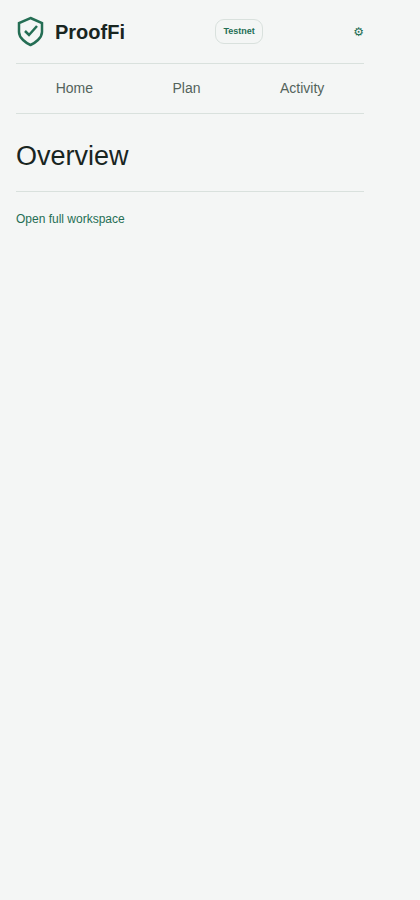
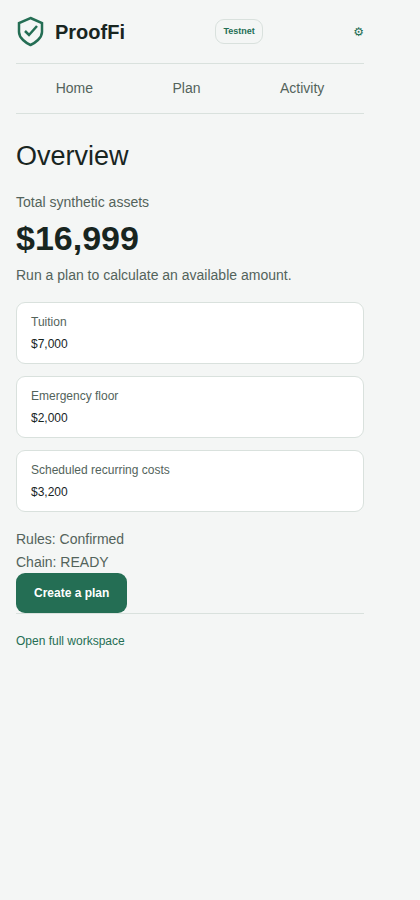
#112: package and validate the extension release candidate

diff --git a/apps/extension/src/Popup.tsx b/apps/extension/src/Popup.tsx
@@ -1,25 +1,28 @@
 import {useEffect,useState} from 'react';
 import {Brand,ThemeControl} from '@prooffi/ui';
 import {api} from './api';
+import {logout} from '../../web/src/lib/session';
 import {navigate} from './router';
 import {WEB} from './policy.mjs';
 import {formatUsd} from '../../web/src/lib/format';
 import type {components} from '../../web/src/lib/schema';
 type FinancialState=components['schemas']['FinancialState'];
 export function Popup({route}:{route:string}){
+ const [windowId,setWindowId]=useState<number|undefined>(undefined);
  const [state,setState]=useState<FinancialState|null>(null);
+ const [rules,setRules]=useState<components['schemas']['ConstitutionRules']|null>(null);
  const [connection,setConnection]=useState('Checking…');
  const [goal,setGoal]=useState('');
  const [events,setEvents]=useState<components['schemas']['AuditEvent'][]>([]);
  const [problem,setProblem]=useState('');
- async function panel(path:string){await chrome.storage.session.set({panelRoute:path});const w=await chrome.windows.getCurrent();if(w.id!==undefined)await chrome.sidePanel.open({windowId:w.id});}
- useEffect(()=>{let alive=true;async function load(){const [s,c,a]=await Promise.all([api.GET('/financial-state'),api.GET('/chain/status'),api.GET('/audit')]);if(!alive)return;if(s.response.status===401){navigate('/login');return;}if(!s.data){setProblem(s.error?.message??'Backend unavailable');return;}setState(s.data);setGoal(s.data.snapshot.goal.text);setConnection(c.data?.status??'Unavailable');setEvents(a.data??[]);}void load().catch(()=>setProblem('Backend unavailable'));return()=>{alive=false;};},[]);
+ async function panel(path:string){if(windowId===undefined){setProblem('Browser window is unavailable. Reopen the extension.');return;}try{const saved=chrome.storage.session.set({panelRoute:path});const opened=chrome.sidePanel.open({windowId});await Promise.all([saved,opened]);}catch{setProblem('The browser could not open the side panel. Reopen ProofFi or use the full workspace.');}}
+ useEffect(()=>{let alive=true;void chrome.windows.getCurrent().then(w=>{if(alive)setWindowId(w.id);});async function load(){const [s,c,a,h]=await Promise.all([api.GET('/financial-state'),api.GET('/chain/status'),api.GET('/audit'),api.GET('/constitutions/history')]);if(!alive)return;if(s.response.status===401){navigate('/login');return;}if(!s.data){setProblem(s.error?.message??'Backend unavailable');return;}setState(s.data);setRules(h.data?.find(v=>v.id===s.data?.active_constitution_version)?.rules??null);setGoal(s.data.snapshot.goal.text);setConnection(c.data?.status??'Unavailable');setEvents(a.data??[]);}void load().catch(()=>setProblem('Backend unavailable'));return()=>{alive=false;};},[]);
  return <div className="extension-shell"><header><Brand/><span className="badge">Testnet</span><a href="/settings" aria-label="Settings">⚙</a></header><nav aria-label="Screens"><a href="/">Home</a><a href="/workspace">Plan</a><a href="/audit">Activity</a></nav>
- {problem&&<p role="alert">{problem}</p>}
- {route==='/'&&<><h1>Overview</h1>{state&&<><p>Total synthetic assets</p><strong className="popup-balance">{formatUsd(state.snapshot.assets.reduce((n,a)=>n+a.amount_minor,0))}</strong><p className="hint">Run a plan to calculate an available amount.</p><dl className="rule-list">{state.snapshot.obligations.filter(o=>o.protected).map(o=><div key={o.id}><dt>{o.name}</dt><dd>{formatUsd(o.amount_minor)}</dd></div>)}</dl><p>Rules: {state.active_constitution_version?'Confirmed':'Not confirmed'}</p><p>Chain: {connection}</p><button onClick={()=>navigate('/workspace')}>Create a plan</button></>}</>}
- {route==='/workspace'&&<><h1>Create a plan</h1><label className="field">Your goal<textarea value={goal} maxLength={2000} onChange={e=>setGoal(e.target.value)}/></label><p className="hint">Proposals are untrusted until independently checked. Detailed results stay open in the side panel.</p><button disabled={!goal.trim()} onClick={()=>void panel('/workspace?goal='+encodeURIComponent(goal.trim()))}>Continue planning</button></>}
+ {problem&&<p role="alert">{problem}</p>}{!state&&!problem&&<p role="status">Loading your financial state…</p>}
+ {route==='/'&&<><h1>Overview</h1>{state&&<><p>Total synthetic assets</p><strong className="popup-balance">{formatUsd(state.snapshot.assets.reduce((n,a)=>n+a.amount_minor,0))}</strong><p className="hint">Run a plan to calculate an available amount.</p><dl className="rule-list">{state.snapshot.obligations.filter(o=>o.protected).map(o=><div key={o.id}><dt>{o.name}</dt><dd>{formatUsd(o.amount_minor)}</dd></div>)}{rules&&<div><dt>Emergency floor</dt><dd>{formatUsd(rules.emergency_floor_minor)}</dd></div>}<div><dt>Scheduled recurring costs</dt><dd>{formatUsd(state.snapshot.recurring_expenses.reduce((n,e)=>n+e.amount_minor*e.due_days.length,0))}</dd></div></dl><p>Rules: {state.active_constitution_version?'Confirmed':'Not confirmed'}</p><p>Chain: {connection}</p><button onClick={()=>navigate('/workspace')}>Create a plan</button></>}</>}
+ {route==='/workspace'&&<><h1>Create a plan</h1><label className="field">Your goal<textarea value={goal} maxLength={2000} onChange={e=>setGoal(e.target.value)}/></label><p className="hint">Proposals are untrusted until independently checked. Detailed results stay open in the side panel.</p><button disabled={!goal.trim()||windowId===undefined} onClick={()=>void panel('/workspace?goal='+encodeURIComponent(goal.trim()))}>Continue planning</button></>}
  {route==='/audit'&&<><h1>Activity</h1>{events.length?<ul className="checks">{[...events].sort((a,b)=>b.sequence-a.sequence).slice(0,6).map(e=><li key={e.id}>#{e.sequence} {e.event_type.replaceAll('_',' ').toLowerCase()}</li>)}</ul>:<p>No recorded activity.</p>}<button onClick={()=>void panel('/audit')}>View complete audit</button></>}
- {route==='/settings'&&<><h1>Settings</h1><ThemeControl/><p className="hint">Backend: {WEB.replace(':3000',':8000')}<br/>Extension ID: <code>{chrome.runtime.id}</code></p><button onClick={()=>void panel('/settings')}>Connection and maintenance</button></>}
+ {route==='/settings'&&<><h1>Settings</h1><ThemeControl/><p className="hint">Backend: {WEB.replace(':3000',':8000')}<br/>Extension ID: <code>{chrome.runtime.id}</code></p><button onClick={()=>void panel('/settings')}>Connection and maintenance</button><p className="hint">Sign-in expires and is cleared when the browser restarts.</p><button className="secondary" onClick={()=>void logout().then(()=>navigate('/login')).catch(()=>setProblem('Could not sign out. Try again.'))}>Sign out</button></>}
  {!['/','/workspace','/audit','/settings'].includes(route)&&<><h1>Continue in the side panel</h1><button onClick={()=>void panel(route)}>Open side panel</button></>}
  <footer><a href={WEB} target="_blank" rel="noreferrer">Open full workspace</a></footer></div>;
 }

diff --git a/apps/extension/panel.html b/apps/extension/panel.html
@@ -1,1 +1,1 @@
-<!doctype html><html lang="en"><head><meta charset="utf-8"><meta name="viewport" content="width=device-width,initial-scale=1"><title>ProofFi</title><script type="module" src="/src/theme.ts"></script></head><body data-surface="panel"><div id="root"></div><script type="module" src="/src/main.tsx"></script></body></html>
+<!doctype html><html lang="en"><head><meta charset="utf-8"><meta name="viewport" content="width=device-width,initial-scale=1"><title>ProofFi</title><script src="./theme.js"></script></head><body data-surface="panel"><div id="root"></div><script type="module" src="/src/main.tsx"></script></body></html>

diff --git a/apps/extension/popup.html b/apps/extension/popup.html
@@ -1,1 +1,1 @@
-<!doctype html><html lang="en"><head><meta charset="utf-8"><meta name="viewport" content="width=device-width,initial-scale=1"><title>ProofFi</title><script type="module" src="/src/theme.ts"></script></head><body data-surface="popup"><div id="root"></div><script type="module" src="/src/main.tsx"></script></body></html>
+<!doctype html><html lang="en"><head><meta charset="utf-8"><meta name="viewport" content="width=device-width,initial-scale=1"><title>ProofFi</title><script src="./theme.js"></script></head><body data-surface="popup"><div id="root"></div><script type="module" src="/src/main.tsx"></script></body></html>

diff --git a/apps/extension/public/theme.js b/apps/extension/public/theme.js
@@ -1,0 +1,1 @@
+try{const theme=localStorage.getItem('prooffi.theme');document.documentElement.dataset.theme=theme==='light'||theme==='dark'?theme:'system';}catch{document.documentElement.dataset.theme='system';}

diff --git a/scripts/package_extension.py b/scripts/package_extension.py
@@ -1,0 +1,23 @@
+"""Package the built extension only; never includes local credentials or tests."""
+import hashlib
+import zipfile
+from pathlib import Path
+
+root = Path(__file__).resolve().parents[1]
+source = root / "apps/extension/dist"
+if not (source / "manifest.json").is_file():
+    raise SystemExit("Run npm run build:extension first")
+target = root / ".local/releases/prooffi-extension-0.1.0.zip"
+target.parent.mkdir(parents=True, exist_ok=True)
+with zipfile.ZipFile(target, "w", compression=zipfile.ZIP_DEFLATED) as archive:
+    for item in sorted(source.rglob("*")):
+        if not item.is_file():
+            continue
+        if item.suffix in {".map", ".pem", ".key"} or item.name.startswith(".env"):
+            raise SystemExit("Unexpected private/debug artifact in runtime")
+        entry = zipfile.ZipInfo(item.relative_to(source).as_posix(), (2026, 1, 1, 0, 0, 0))
+        entry.compress_type = zipfile.ZIP_DEFLATED
+        entry.external_attr = 0o644 << 16
+        archive.writestr(entry, item.read_bytes())
+print(str(target))
+print("SHA-256 " + hashlib.sha256(target.read_bytes()).hexdigest())

diff --git a/docs/EXTENSION_RELEASE.md b/docs/EXTENSION_RELEASE.md
@@ -1,0 +1,37 @@
+# ProofFi local-companion extension — #111 / #112
+
+## Installation and review gates
+
+This is an unlisted controlled Base Sepolia demo, not a production wallet. Requires the local Python backend and website. No content scripts, browsing history, injected wallet provider, analytics, remotely loaded executable code, mainnet or key custody in the extension.
+
+Build with locked dependencies: npm ci, npm run build:extension, npm run test:extension. Package with .venv/bin/python scripts/package_extension.py. The reproducible ZIP contains only dist runtime. Unpack it, open brave://extensions or chrome://extensions, enable Developer mode and Load unpacked. Store submission is not performed or guaranteed.
+
+Backend auth support is a separate draft contract PR #113. Do not activate before lead review. After review, explicitly add the installed 32-character extension ID to EXTENSION_IDS in the private backend .env and restart. This is opt-in; empty defaults deny. Never paste a password/key into GitHub. Sign in to the extension with your existing local demo password. The ID is public routing context, not a credential. Browser restart or backend restart requires sign-in again.
+
+The single approved backend is http://127.0.0.1:8000; website links use http://127.0.0.1:3000. No arbitrary backend URL is accepted. Chromium host permissions apply to the loopback host, while the bundled worker pins the exact port. The required permissions are storage and sidePanel; host access is restricted to that loopback host. No browser account/cookies are read.
+
+## Behavior and security
+
+Popup Home shows actual synthetic balances, not an invented available amount. Plan passes only the entered goal into the persistent panel. Full policy, planning, simulation, verification, certificate, approval, execution, attack, emergency, audit and maintenance screens reuse the website React screens and typed models. Popup never renders financial confirmation controls.
+
+The worker alone adds the opaque extension session/CSRF credential. Session storage is restricted to trusted extension contexts. Passwords are sent once to local authentication, never saved. Persistent local storage contains request identities and operation markers only, never session credentials. Requests are allowlisted by method/path and sender identity/document; no external messages or arbitrary URLs are supported.
+
+Approval and execution have separate exact acknowledgements. Before sending execution, the worker durably preserves the original body; reopening restores that identity. Another body/key cannot replace it. Existing sends require a matching backend audit claim before reconciliation. Requests are serialized across panel/popup. Worker termination, browser closure and server/transport errors never automatically resend a mutation. Unknown approval/expense/reset/attack operations remain blocked for operator inspection; the extension does not implement advanced recovery #99 or silently clear uncertainty.
+
+No new financial consent accompanies installing/opening the extension. All simulation distributions, safety checks, certificate expiry and backend execution guards remain authoritative. Store reviewers should use disposable test-only setup, not preserved real demo databases.
+
+## Privacy/data-flow statement
+
+The extension reads planning state, policy, certificates, audit records and testnet connection observations from the local companion after sign-in. Entered goals and candidates are sent only to that companion. In live planner mode the companion sends minimum planning context to its configured AI provider; the extension does not hold provider keys. The extension collects no browsing activity, site content, telemetry or analytics. It does not sync financial data or passwords. Theme preference stays locally in extension origin storage; the session credential stays in memory-backed Chrome session storage. Request identities persist locally to prevent duplicate actions. Browser uninstall removes extension storage; backend records follow the backend's retention behavior. Local host/extension compromise is outside these protections.
+
+## Store submission checklist
+
+- Lead-approved auth contract and configured final extension ID; revalidate the store-assigned ID.
+- Passing exact-head CI, full combined checks and installed Chromium/Brave validation.
+- Preserve installed-browser evidence: lost execution response, worker termination, matching-claim reconciliation, one fixture send and browser-restart logout. Existing shared website/financial regressions remain mandatory.
+- Release ZIP/hash, 16/48/128 icons, 1280x800 or 640x400 store screenshots.
+- Publish this accurate privacy statement at an owner-selected public HTTPS URL; add owner support/contact details and store disclosures.
+- Unlisted controlled-demo listing describes local-companion requirement, Base Sepolia only and single-user boundary.
+- Owner performs store/legal/account steps and submission. Publication, legal acceptance and future financial transactions are not authorized by this package.
+
+Any missing checklist item remains a release blocker; a compiled ZIP is not store approval or full release acceptance.

diff --git a/docs/PROGRESS.md b/docs/PROGRESS.md
@@ -1422,3 +1422,6 @@ Reproducible dist-only ZIP packager and local install/privacy/reviewer instructi
 
 ### #111 installed lifecycle validation
 A deterministic test proxy discarded the original successful execute response and returned503 after the real isolated backend processed it. The UI reported uncertainty. CDP terminated the actual extension service worker; reopening restored the original persisted request, explicit matching-claim reconciliation reached CONFIRMED, and fixture statistics remained exactly one send/accepted transaction. Browser restart cleared chrome.storage.session authentication while preserving the exact execution identity. These are controlled public-fixture tests, not live receipts. Worker input/output bounds now count UTF8 bytes/streamed response bytes.5 policy tests pass. Evidence updated without credentials.
+
+### #112 frozen release candidate
+The installed Chromium run also exercised actual popup-to-panel handoff and retained all consent boundaries. Popup readiness explicitly waits for real state; protection/recurring summaries use current state/policy, not invented availability. External bundled theme.js applies stored theme before rendering under extension CSP. The final combined rerun is required against the staged tree: an earlier run passed96 browser tests but AT12 found an unstaged deleted theme module in Git inventory (ENOENT, not a secret match); replacement/deletion are now tracked and the assertion is unchanged.

diff --git a/docs/FRONTEND_PARITY.md b/docs/FRONTEND_PARITY.md
@@ -33,3 +33,13 @@ Regression source: retain existing 95 browser/API/proxy tests and AT01–12, add
 Baseline genuine A/B/C observations and screenshots remain in evidence/; use disposable test databases for new regression images, never reset the preserved originals.
 
 Visual references: [Quicken](https://mobbin.com/screens/36ad4ca4-943e-4857-8e9a-ab5369a39d1c) and [Rocket Money](https://mobbin.com/screens/78a2221d-d03f-4775-bad6-675d3c59f246). Reference images are not product assets.
+
+## Additive extension contract (#110; disabled until reviewed)
+
+| Method | Endpoint | UI owner | Access | Failure behavior |
+|---|---|---|---|---|
+| POST | `/auth/extension/login` | Extension login through worker | Configured extension/password | No cookie; private session credential; explicit failure |
+| GET | `/auth/extension/session` | Extension shared session check | Extension-bound opaque credential | Expired/revoked session signs out |
+| POST | `/auth/extension/logout` | Extension settings/shared logout | Credential + CSRF | Explicit revocation; no financial effect |
+
+These three operations belong to separate contract PR113. The24 existing operation bodies are unchanged. When integrating that PR, refresh this ledger and the generated types together before final acceptance.
